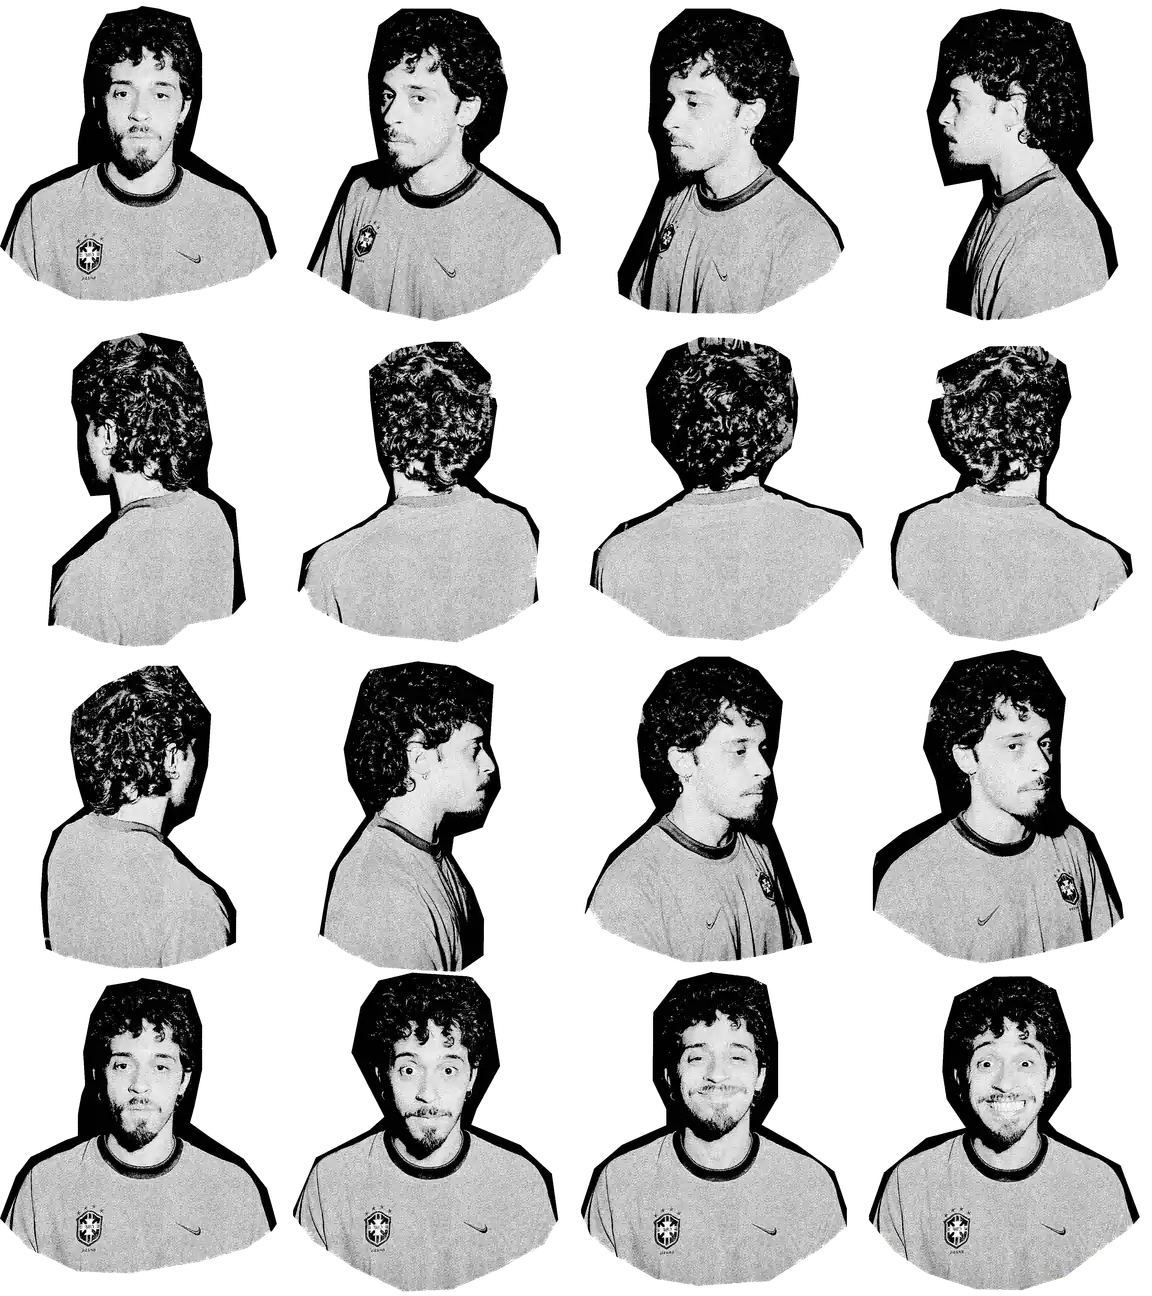
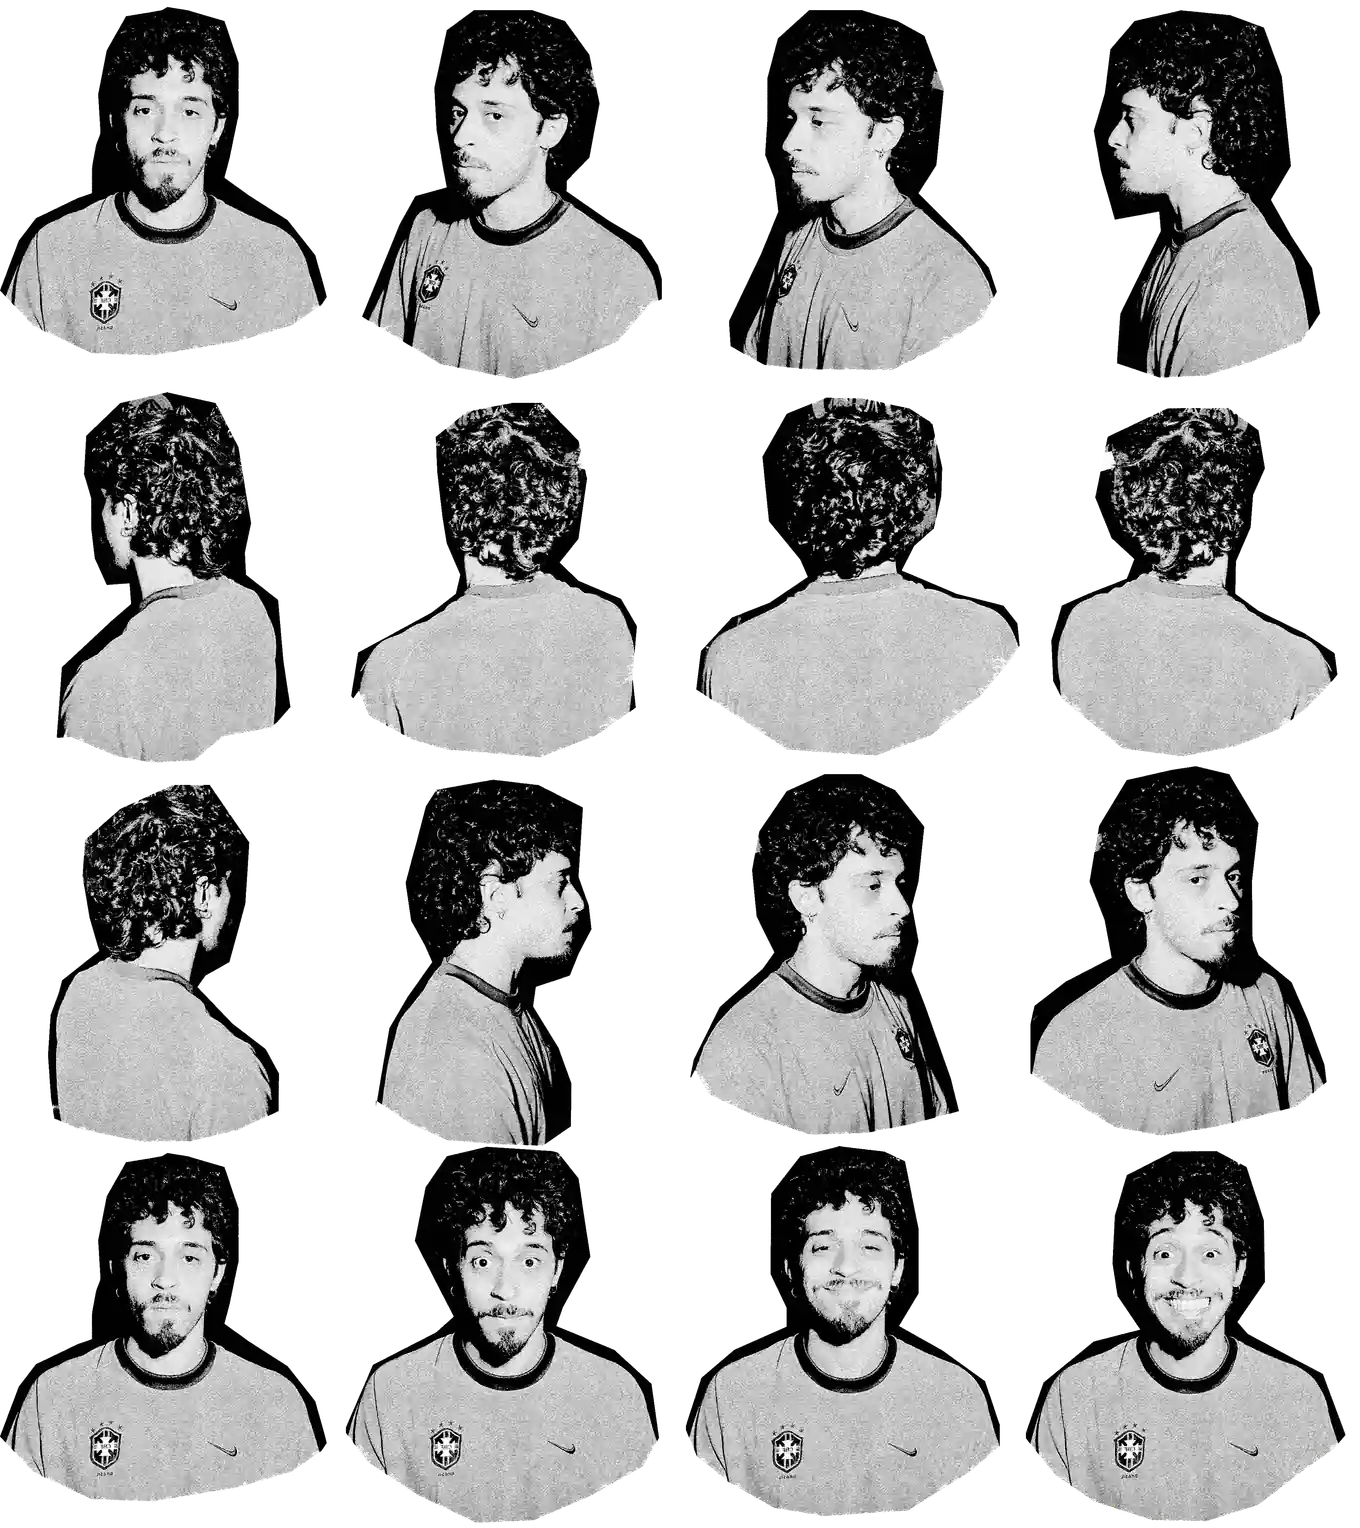
Aumenta o retrato animado da hero
O flipbook ao lado do nome ganhou mais presença: de 430px para 620px de
largura máxima no desktop, e um pouco maior também no mobile (226px contra
203px), reposicionado para caber entre o subtítulo e o CTA sem sobrepor nada.

A resolução da folha de sprite acompanhou o novo tamanho de exibição (tile de
448px para 640px no desktop, 288px para 340px no mobile), senão o navegador
ampliaria uma imagem pequena demais e o traço saíria borrado. Para manter o
peso sob controle apesar da resolução maior, recalibrei a qualidade do WebP
testando cada combinação até achar o ponto onde o arquivo cai sem artefato
visível no tamanho real de exibição: quality 28 em vez de 50. Resultado: 744
KB no desktop e 169 KB no mobile, ante os 16,6 MB dos PNGs originais.

Claude-Session: https://claude.ai/code/session_016bXtKGjEtfqVzyJZEo1gMP

diff --git a/src/components/sections/Hero.tsx b/src/components/sections/Hero.tsx
@@ -59,7 +59,7 @@ function HeroContent({
           o rodapé da hero. */}
       <SelfPortrait
         label={dict.hero.portraitAlt}
-        className="pointer-events-none absolute right-0 top-[45%] w-[52vw] sm:top-[9%] sm:w-[31vw] sm:max-w-[430px]"
+        className="pointer-events-none absolute right-0 top-[38%] w-[58vw] sm:top-[4%] sm:w-[42vw] sm:max-w-[620px]"
       />
 
       <div>
